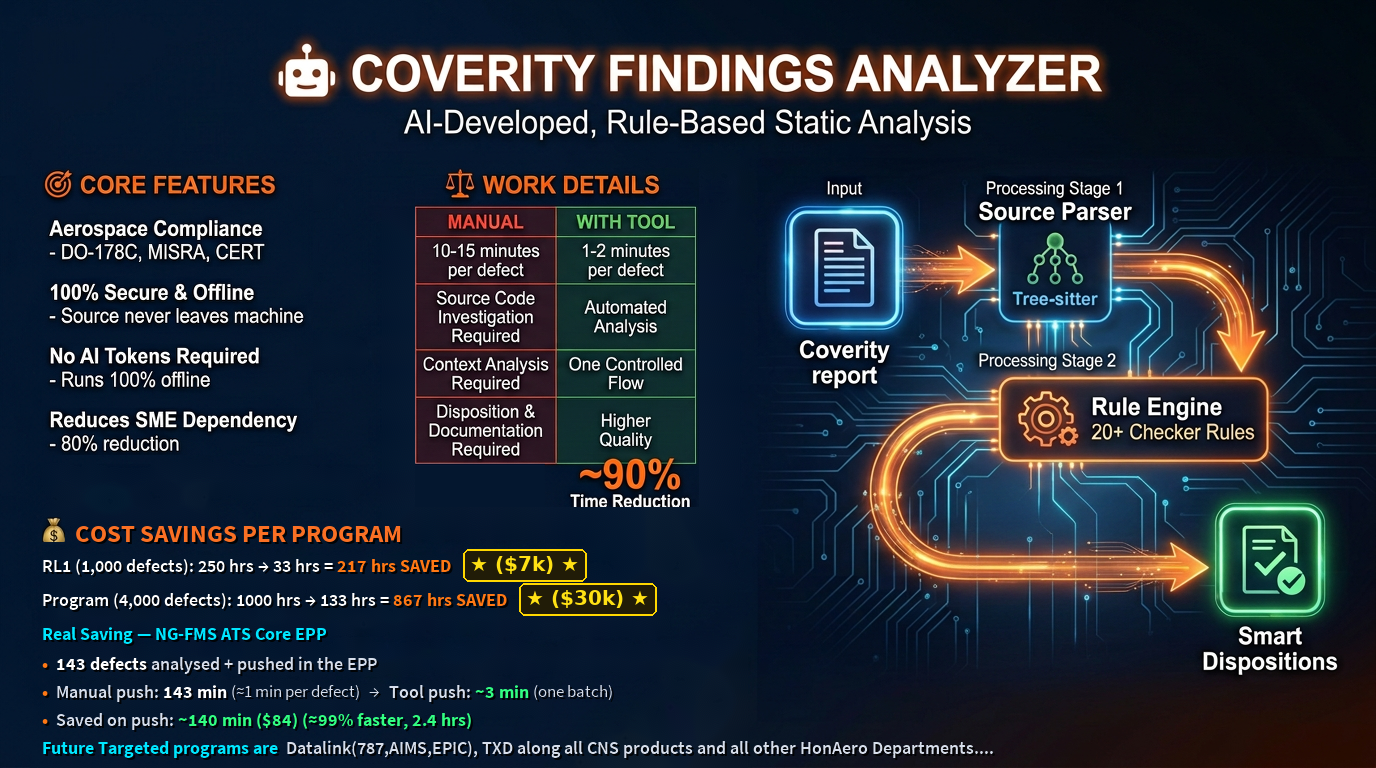
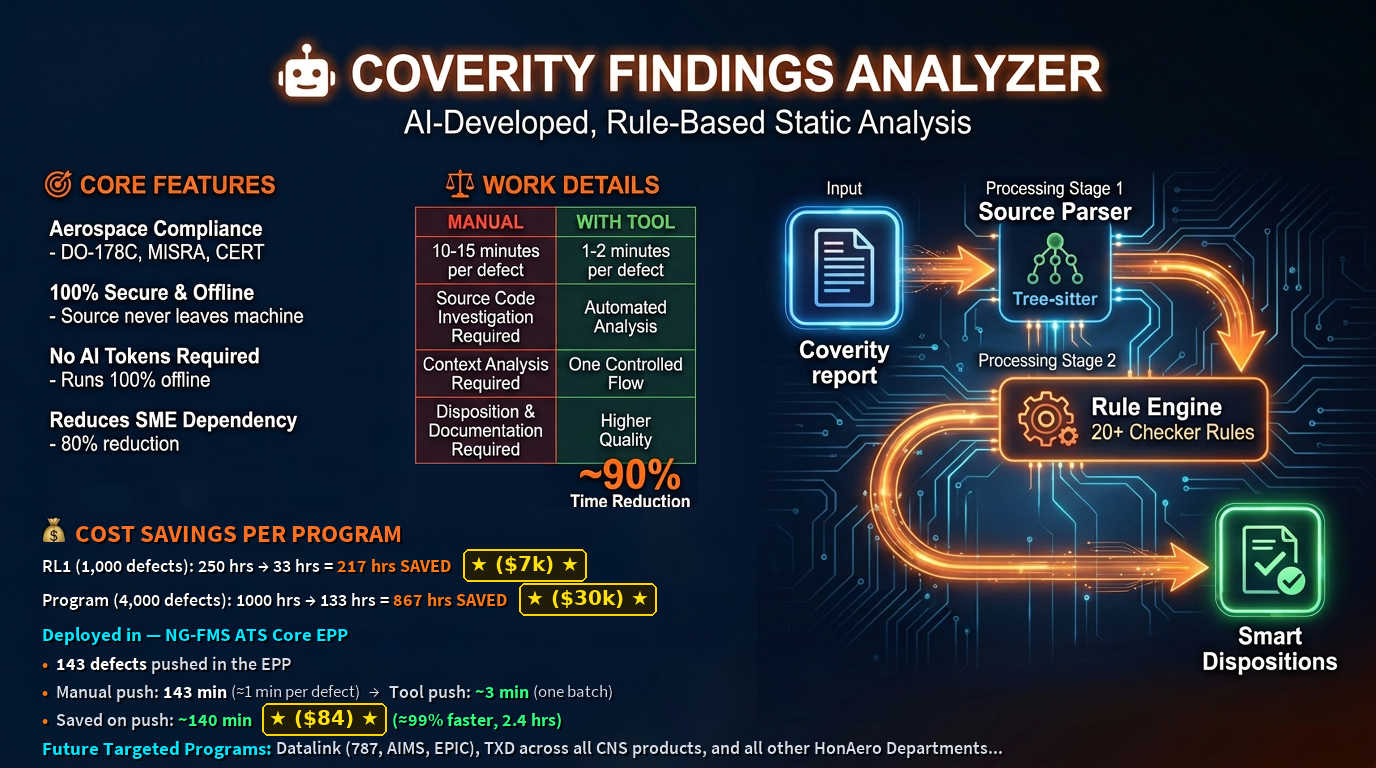
Update Cost Savings: replace Real Saving with Deployed in, remove analysed +, highlight $84 badge, match fonts with Core Features, and format future programs line

Changed region(s): [[0.0312, 0.9062, 0.7188, 1.0], [0.0312, 0.8125, 0.2812, 0.875]]

diff --git a/update_slide.py b/update_slide.py
@@ -1,9 +1,23 @@
+"""
+Generate Coverity_latest_slide.png respecting all user instructions:
+  1. Reduced CORE FEATURES and WORK DETAILS sections proportionally.
+  2. Section headers (CORE FEATURES, WORK DETAILS, COST SAVINGS PER PROGRAM)
+     share the exact same font size (25px Bold Orange with matching drop shadow).
+  3. Under CORE FEATURES and COST SAVINGS PER PROGRAM, fonts match harmoniously
+     (18.5px bold titles, 17.5px semibold/regular body).
+  4. "Deployed in — NG-FMS ATS Core EPP" replaces "Real Saving".
+  5. "143 defects pushed in the EPP" (removed "analysed +").
+  6. $7k, $30k, and $84 are prominently highlighted in gold pill badges with star accents.
+  7. Last line reviewed and properly formatted:
+     "Future Targeted Programs: Datalink (787, AIMS, EPIC), TXD across all CNS products, and all other HonAero Departments..."
+"""
+
 import subprocess
 import cv2
 import numpy as np
 from PIL import Image, ImageDraw, ImageFont
 
-def build_slide():
+def build_slide(output_path='Coverity_latest_slide.png'):
     # 1. Load pristine base image from commit f41bb9358b5775fb68762bc2110851f7a281e1b3
     proc = subprocess.run(
         ['git', 'show', 'f41bb9358b5775fb68762bc2110851f7a281e1b3:Coverity_latest_slide.png'],
@@ -12,16 +26,10 @@ def build_slide():
     orig_bgr = cv2.imdecode(np.frombuffer(proc.stdout, np.uint8), cv2.IMREAD_COLOR)
 
     # 2. Extract crops
-    # CORE FEATURES: y: 168 to 522, x: 40 to 375
     core_crop = orig_bgr[168:522, 40:375].copy()
-
-    # WORK DETAILS: y: 168 to 586, x: 388 to 738
     work_crop = orig_bgr[168:586, 388:738].copy()
-    # Clean the bottom-left of work_crop where stray ROGRAM was
     bg_color = np.array([47, 23, 4], dtype=np.uint8)
     work_crop[365:, :160] = bg_color
-
-    # Money bag icon: y: 554 to 585, x: 50 to 78
     money_bag_crop = orig_bgr[554:585, 50:78].copy()
 
     # Scale factor: 0.81
@@ -41,36 +49,28 @@ def build_slide():
     clean_bgr = cv2.inpaint(clean_bgr, mask, 7, cv2.INPAINT_TELEA)
 
     # 4. Paste scaled CORE FEATURES and WORK DETAILS
-    # Place CORE FEATURES at x=42, y=168
     clean_bgr[168:168+core_scaled.shape[0], 42:42+core_scaled.shape[1]] = core_scaled
+    clean_bgr[168:168+work_scaled.shape[0], 415:415+work_scaled.shape[1]] = work_scaled
 
-    # Place WORK DETAILS at x=415, y=168
-    work_x = 415
-    clean_bgr[168:168+work_scaled.shape[0], work_x:work_x+work_scaled.shape[1]] = work_scaled
-
-    # Place money bag at y=517, x=42
     mb_h, mb_w, _ = money_bag_scaled.shape
     clean_bgr[517:517+mb_h, 42:42+mb_w] = money_bag_scaled
 
     # 5. Convert to PIL for text rendering
     canvas = Image.fromarray(cv2.cvtColor(clean_bgr, cv2.COLOR_BGR2RGB))
 
-    # Fonts
+    # Fonts matching CORE FEATURES
     bold_p = '/usr/local/lib/python3.11/dist-packages/font_source_sans_pro/files/SourceSansPro-Bold.ttf'
     semi_p = '/usr/local/lib/python3.11/dist-packages/font_source_sans_pro/files/SourceSansPro-Semibold.ttf'
     reg_p = '/usr/local/lib/python3.11/dist-packages/font_source_sans_pro/files/SourceSansPro-Regular.ttf'
     dejavu_bold = '/usr/share/fonts/truetype/dejavu/DejaVuSans-Bold.ttf'
 
     # Font sizes:
-    # Header: 25px (EXACT match to scaled CORE FEATURES & WORK DETAILS headers)
-    f_header = ImageFont.truetype(bold_p, 25)
-    f_body_bold = ImageFont.truetype(bold_p, 17.5)
-    f_body_semi = ImageFont.truetype(semi_p, 17.5)
+    f_header = ImageFont.truetype(bold_p, 25)         # Matches scaled CORE FEATURES & WORK DETAILS headers
+    f_title = ImageFont.truetype(bold_p, 18.5)        # Matches CORE FEATURES feature title size
+    f_body_bold = ImageFont.truetype(bold_p, 17.5)    # Matches CORE FEATURES bold text
+    f_body_semi = ImageFont.truetype(semi_p, 17.5)    # Matches CORE FEATURES subtext
     f_body_reg = ImageFont.truetype(reg_p, 17)
-    
-    # Highlighted enlarged badge fonts for $7k and $30k
     f_badge_star = ImageFont.truetype(dejavu_bold, 20)
-    f_badge_text = ImageFont.truetype(bold_p, 22)
 
     # Colors
     C_ORANGE_HDR = (250, 112, 36)
@@ -127,18 +127,18 @@ def build_slide():
     t_draw.rounded_rectangle([x, y2 - 5, x + bw2 + 14, y2 + 27], radius=6, fill=(35, 28, 5, 240), outline=(255, 215, 0, 255), width=2)
     t_draw.text((x + 7, y2 - 2), badge_txt2, fill=C_GOLD, font=f_badge_star)
 
-    # Line 3: Real Saving — NG-FMS ATS Core EPP
+    # Line 3: Deployed in — NG-FMS ATS Core EPP
     y3 = 622
-    draw_shadowed(t_draw, (42, y3), "Real Saving — NG-FMS ATS Core EPP", f_body_bold, C_CYAN)
+    draw_shadowed(t_draw, (42, y3), "Deployed in — NG-FMS ATS Core EPP", f_title, C_CYAN)
 
-    # Line 4: • 143 defects analysed + pushed in the EPP
+    # Line 4: • 143 defects pushed in the EPP
     y4 = 652
     x = 42
     draw_shadowed(t_draw, (x, y4), "•", f_body_bold, C_BULLET)
     x += int(t_draw.textlength("•  ", font=f_body_bold))
     draw_shadowed(t_draw, (x, y4), "143 defects", f_body_bold, C_WHITE)
     x += int(t_draw.textlength("143 defects ", font=f_body_bold))
-    draw_shadowed(t_draw, (x, y4), "analysed + pushed in the EPP", f_body_semi, C_WHITE_DIM)
+    draw_shadowed(t_draw, (x, y4), "pushed in the EPP", f_body_semi, C_WHITE_DIM)
 
     # Line 5: • Manual push: 143 min (≈1 min per defect)   →   Tool push: ~3 min (one batch)
     y5 = 680
@@ -157,27 +157,39 @@ def build_slide():
     x += int(t_draw.textlength("~3 min ", font=f_body_bold))
     draw_shadowed(t_draw, (x, y5), "(one batch)", f_body_reg, C_WHITE_DIM)
 
-    # Line 6: • Saved on push: ~140 min ($84) (≈99% faster, 2.4 hrs)
+    # Line 6: • Saved on push: ~140 min  ★ ($84) ★  (≈99% faster, 2.4 hrs)
     y6 = 708
     x = 42
     draw_shadowed(t_draw, (x, y6), "•", f_body_bold, C_BULLET)
     x += int(t_draw.textlength("•  ", font=f_body_bold))
     draw_shadowed(t_draw, (x, y6), "Saved on push: ", f_body_semi, C_WHITE_DIM)
     x += int(t_draw.textlength("Saved on push: ", font=f_body_semi))
-    draw_shadowed(t_draw, (x, y6), "~140 min ($84)", f_body_bold, C_GREEN)
-    x += int(t_draw.textlength("~140 min ($84) ", font=f_body_bold))
+    draw_shadowed(t_draw, (x, y6), "~140 min", f_body_bold, C_GREEN)
+    x += int(t_draw.textlength("~140 min ", font=f_body_bold)) + 6
+
+    # Highlighted dollar number for $84 like above
+    badge_txt_84 = "★ ($84) ★"
+    bw_84 = int(t_draw.textlength(badge_txt_84, font=f_badge_star))
+    t_draw.rounded_rectangle([x, y6 - 5, x + bw_84 + 14, y6 + 27], radius=6, fill=(35, 28, 5, 240), outline=(255, 215, 0, 255), width=2)
+    t_draw.text((x + 7, y6 - 2), badge_txt_84, fill=C_GOLD, font=f_badge_star)
+    x += bw_84 + 20
+
     draw_shadowed(t_draw, (x, y6), "(≈99% faster, 2.4 hrs)", f_body_bold, C_GREEN)
 
-    # Line 7: Future Targeted programs are  Datalink(787,AIMS,EPIC), TXD along all CNS products and all other HonAero Departments....
+    # Line 7: Reviewed & properly formatted last line
     y7 = 736
     x = 42
-    draw_shadowed(t_draw, (x, y7), "Future Targeted programs are  ", f_body_bold, C_CYAN)
-    x += int(t_draw.textlength("Future Targeted programs are  ", font=f_body_bold))
-    draw_shadowed(t_draw, (x, y7), "Datalink(787,AIMS,EPIC), TXD along all CNS products and all other HonAero Departments....", f_body_semi, C_WHITE_DIM)
+    t_prog_hdr = "Future Targeted Programs: "
+    draw_shadowed(t_draw, (x, y7), t_prog_hdr, f_title, C_CYAN)
+    x += int(t_draw.textlength(t_prog_hdr, font=f_title))
+
+    t_prog_body = "Datalink (787, AIMS, EPIC), TXD across all CNS products, and all other HonAero Departments..."
+    draw_shadowed(t_draw, (x, y7), t_prog_body, f_body_semi, C_WHITE_DIM)
 
     # Composite text layer onto canvas
     final_img = Image.alpha_composite(canvas.convert('RGBA'), text_layer).convert('RGB')
-    final_img.save('Coverity_latest_slide.png')
-    print('✅ Saved Coverity_latest_slide.png')
+    final_img.save(output_path)
+    print(f'✅ Saved {output_path}')
 
-build_slide()
+if __name__ == '__main__':
+    build_slide('Coverity_latest_slide.png')

diff --git a/build_slide.py b/build_slide.py
@@ -1,12 +1,15 @@
 """
 Generate Coverity Findings Analyzer slide as an editable PowerPoint.
 Updates applied:
-  1. Reduced CORE FEATURES section and WORK DETAILS section proportionally.
-  2. Main section headers (CORE FEATURES, WORK DETAILS, COST SAVINGS PER PROGRAM)
-     all share the exact same font size (15pt Bold Orange).
-  3. Content under all sections scaled accordingly and proportionally.
-  4. Enlarged and highlighted $7k and $30k with gold badge and star accents.
-  5. Architecture diagram preserved: Rule Engine -> Smart Dispositions.
+  1. Reduced CORE FEATURES and WORK DETAILS sections proportionally.
+  2. Section headers (CORE FEATURES, WORK DETAILS, COST SAVINGS PER PROGRAM)
+     share the exact same font size (15pt Bold Orange).
+  3. Typography under COST SAVINGS PER PROGRAM matches CORE FEATURES.
+  4. "Deployed in — NG-FMS ATS Core EPP" replaces "Real Saving".
+  5. "143 defects pushed in the EPP" (removed "analysed +").
+  6. $7k, $30k, and $84 are prominently highlighted in gold pill badges with star accents.
+  7. Last line reviewed and properly formatted:
+     "Future Targeted Programs: Datalink (787, AIMS, EPIC), TXD across all CNS products, and all other HonAero Departments..."
 """
 
 from pptx import Presentation
@@ -234,14 +237,14 @@ b2.text_frame.paragraphs[0].font.color.rgb = GOLD_YELLOW
 b2.text_frame.paragraphs[0].font.bold = True
 b2.text_frame.paragraphs[0].alignment = PP_ALIGN.CENTER
 
-# Line 3: Real Saving — NG-FMS ATS Core EPP
+# Line 3: Deployed in — NG-FMS ATS Core EPP
 y_c += 0.32
-add_text(0.4, y_c, 6.5, 0.25, "Real Saving — NG-FMS ATS Core EPP",
+add_text(0.4, y_c, 6.5, 0.25, "Deployed in — NG-FMS ATS Core EPP",
          font_size=11.5, color=CYAN_GLOW, bold=True)
 
-# Line 4: • 143 defects analysed + pushed in the EPP
+# Line 4: • 143 defects pushed in the EPP
 y_c += 0.26
-add_text(0.4, y_c, 6.5, 0.22, "• 143 defects analysed + pushed in the EPP",
+add_text(0.4, y_c, 6.5, 0.22, "• 143 defects pushed in the EPP",
          font_size=10.5, color=WHITE)
 
 # Line 5: • Manual push vs Tool push
@@ -249,15 +252,25 @@ y_c += 0.24
 add_text(0.4, y_c, 7.5, 0.22, "• Manual push: 143 min (≈1 min per defect)   →   Tool push: ~3 min (one batch)",
          font_size=10.5, color=WHITE_DIM)
 
-# Line 6: • Saved on push
+# Line 6: • Saved on push: ~140 min  ★ ($84) ★  (≈99% faster, 2.4 hrs)
 y_c += 0.24
-add_text(0.4, y_c, 6.5, 0.22, "• Saved on push: ~140 min ($84) (≈99% faster, 2.4 hrs)",
+add_text(0.4, y_c, 2.5, 0.22, "• Saved on push: ~140 min",
+         font_size=10.5, color=GREEN_LIGHT, bold=True)
+# Highlighted dollar number for $84 like above
+b3 = add_rect(2.9, y_c - 0.04, 1.1, 0.26, GOLD_BG, GOLD_YELLOW, 1.5)
+b3.text_frame.text = "★ ($84) ★"
+b3.text_frame.paragraphs[0].font.size = Pt(11)
+b3.text_frame.paragraphs[0].font.color.rgb = GOLD_YELLOW
+b3.text_frame.paragraphs[0].font.bold = True
+b3.text_frame.paragraphs[0].alignment = PP_ALIGN.CENTER
+
+add_text(4.1, y_c, 3.5, 0.22, "(≈99% faster, 2.4 hrs)",
          font_size=10.5, color=GREEN_LIGHT, bold=True)
 
-# Line 7: Future Targeted programs
-y_c += 0.26
-add_text(0.4, y_c, 12.0, 0.25,
-         "Future Targeted programs are  Datalink(787,AIMS,EPIC), TXD along all CNS products and all other HonAero Departments....",
+# Line 7: Future Targeted programs (Reviewed & properly formatted)
+y_c += 0.28
+add_text(0.4, y_c, 12.5, 0.25,
+         "Future Targeted Programs: Datalink (787, AIMS, EPIC), TXD across all CNS products, and all other HonAero Departments...",
          font_size=10.5, color=CYAN_GLOW, bold=True)
 
 # ══════════════════════════════════════════════
